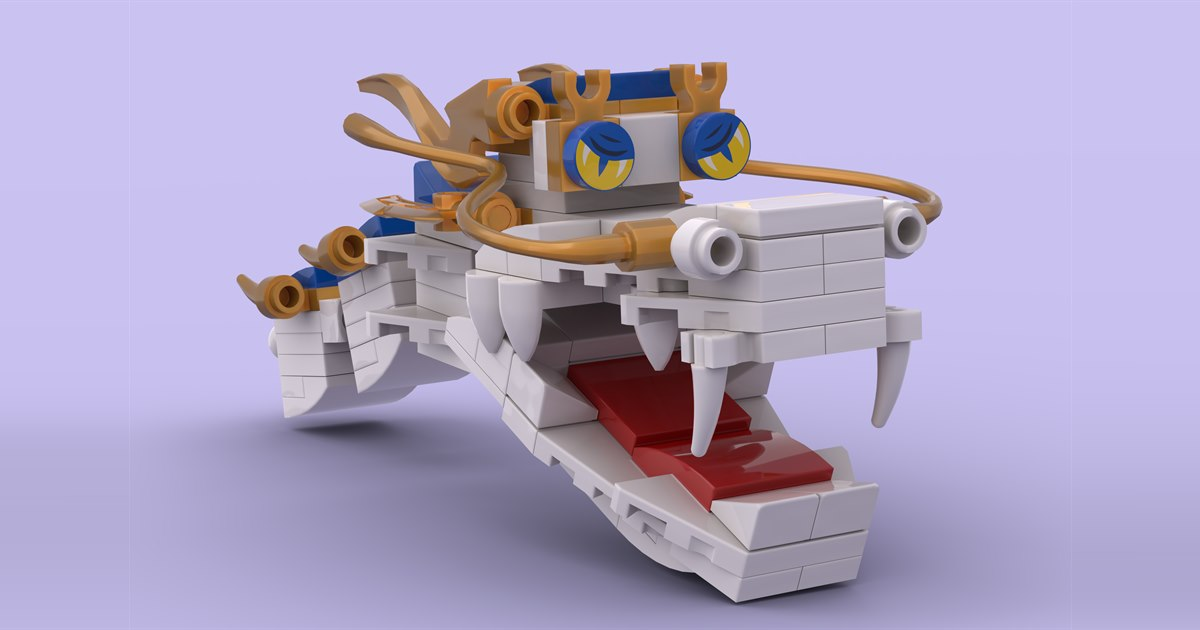
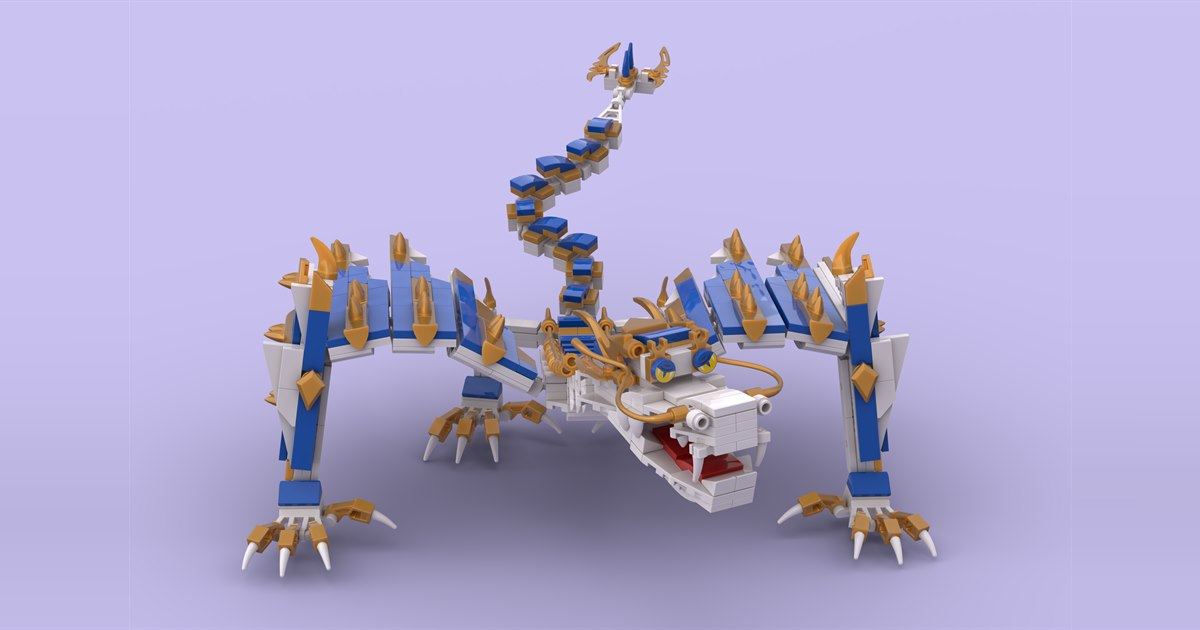
link image swap

diff --git a/lib/metadata.ts b/lib/metadata.ts
@@ -3,14 +3,14 @@ import { SITE_NAME } from "@/content/site";
 
 /**
  * Social preview for every page (link cards in chats and feeds): a 1200×630 JPG, the standard 1.91:1 card,
- * light enough (~60 KB) for apps that drop heavy previews. Made from zmago-render-final-fix-link-preview.png —
+ * light enough (~60 KB) for apps that drop heavy previews. Made from zmago-render-final-fix-preview-link.png —
  * the whole render scaled to the card's height, its backdrop carried out to the sides.
  */
 export const PREVIEW_IMAGE = {
   url: "/images/og-preview.jpg",
   width: 1200,
   height: 630,
-  alt: "The head of Zmago the Dragon, a LEGO model, with its jaw open",
+  alt: "Zmago the Dragon, a LEGO model, crouching face on with its jaw open, wings spread and tail curling up behind",
 };
 
 /**
